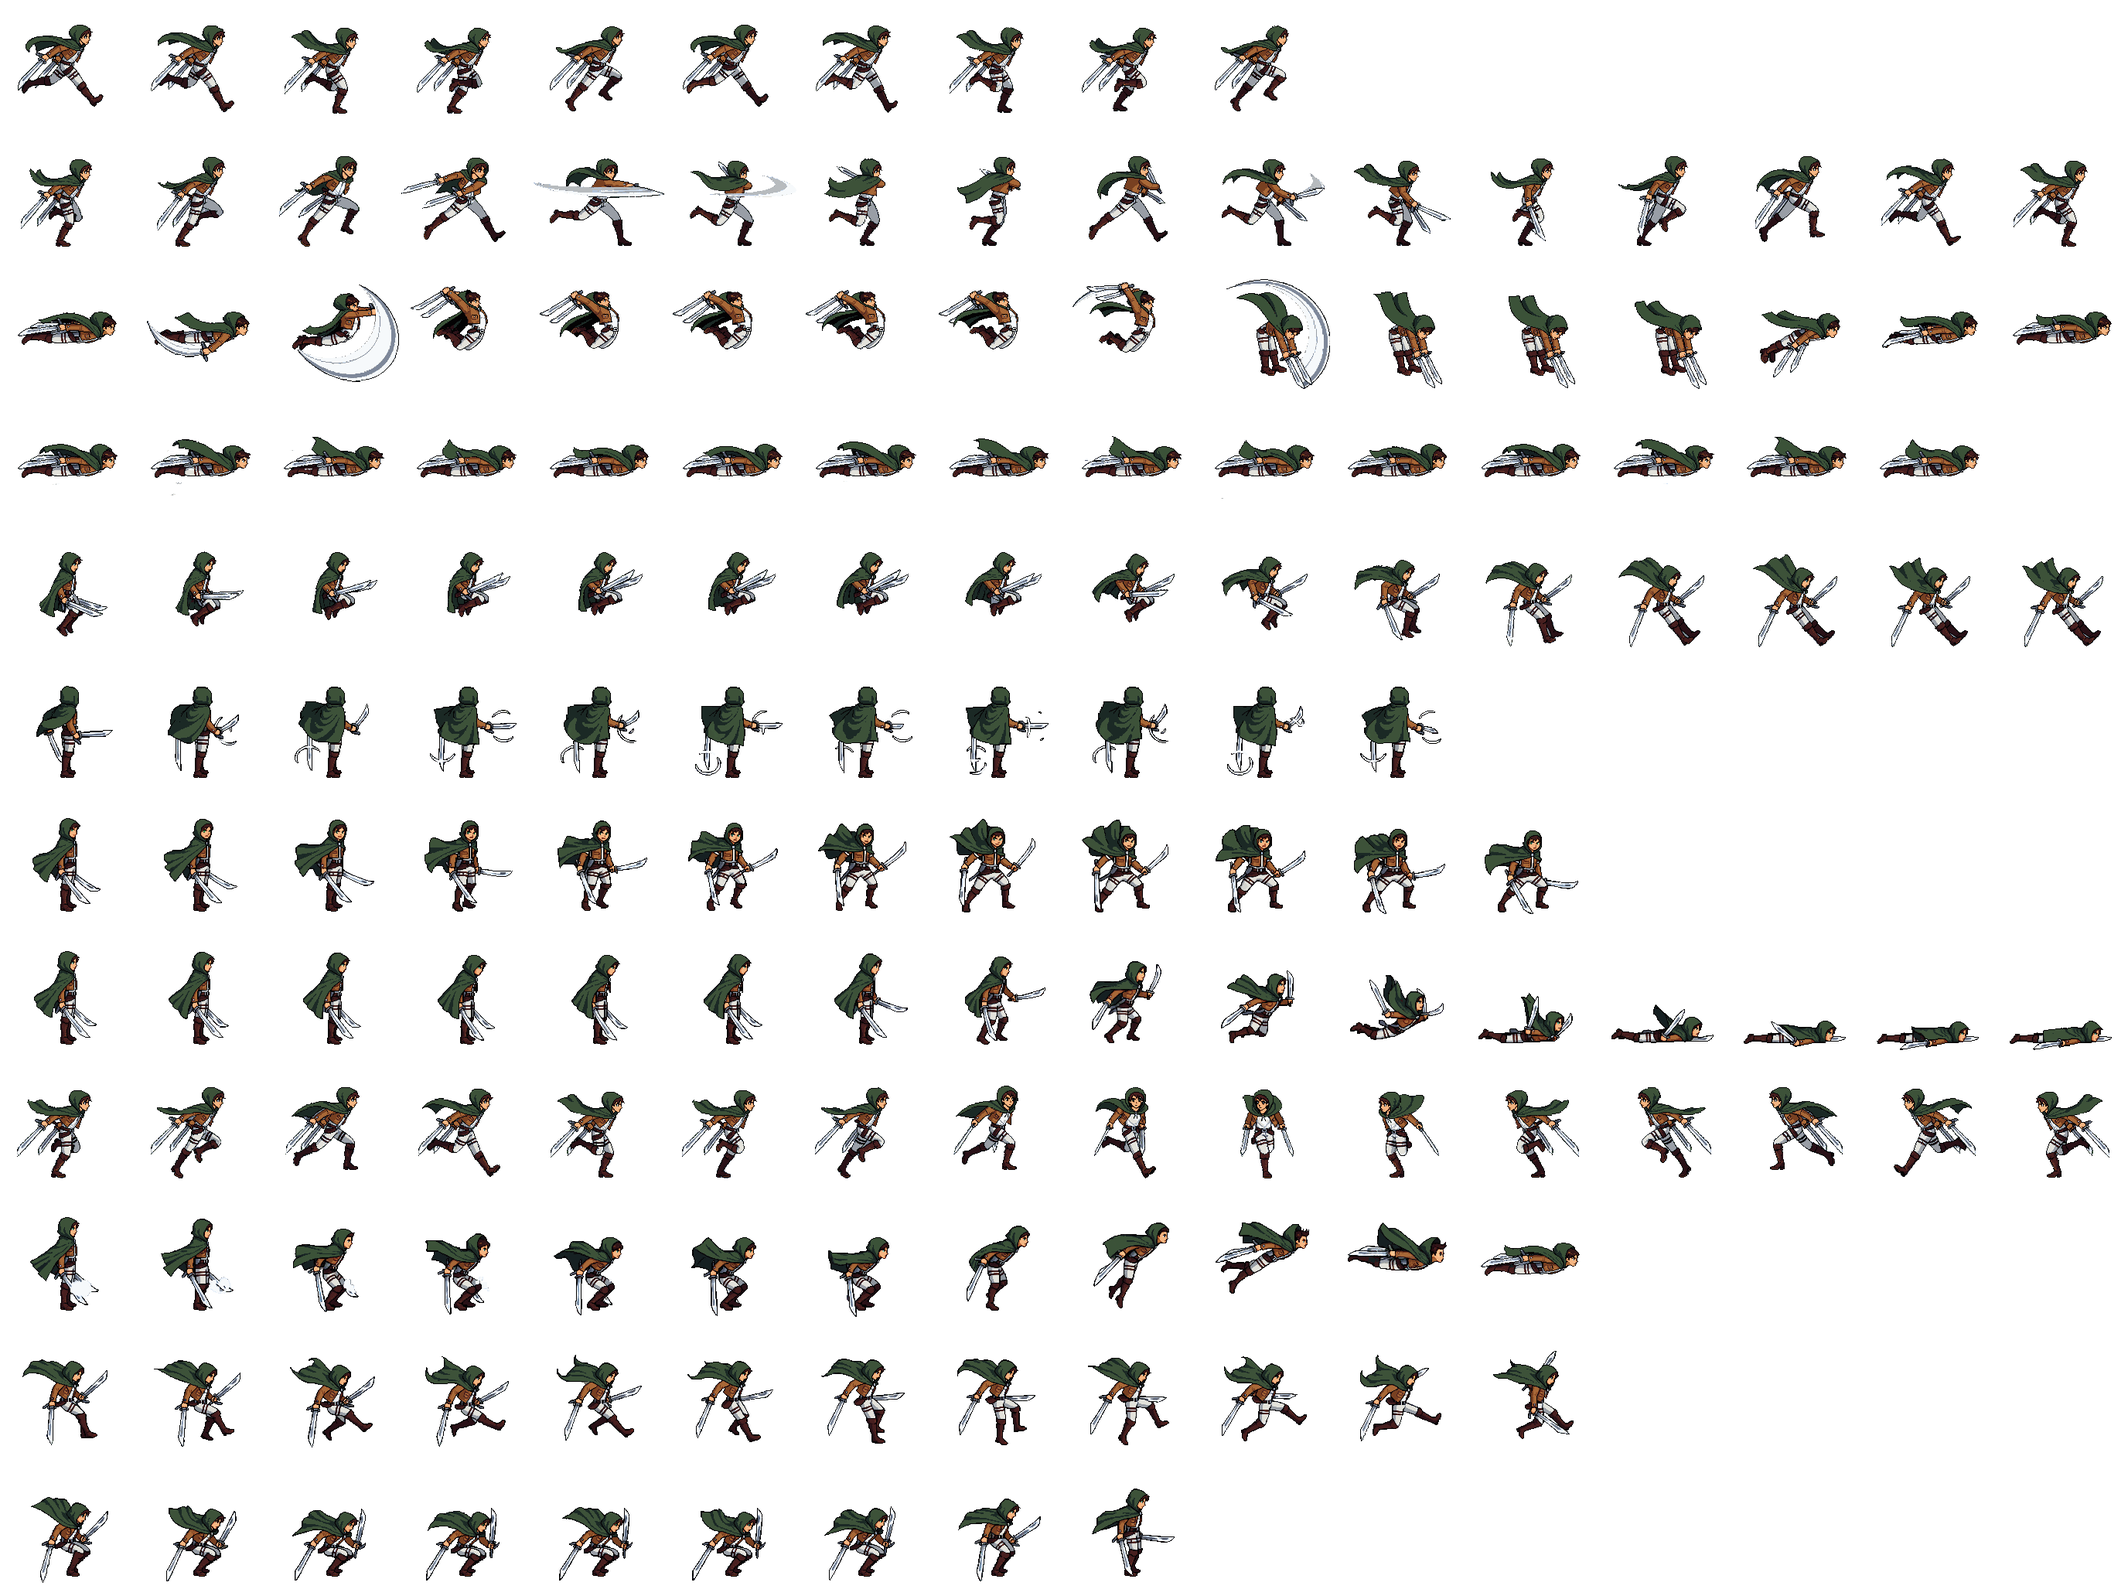
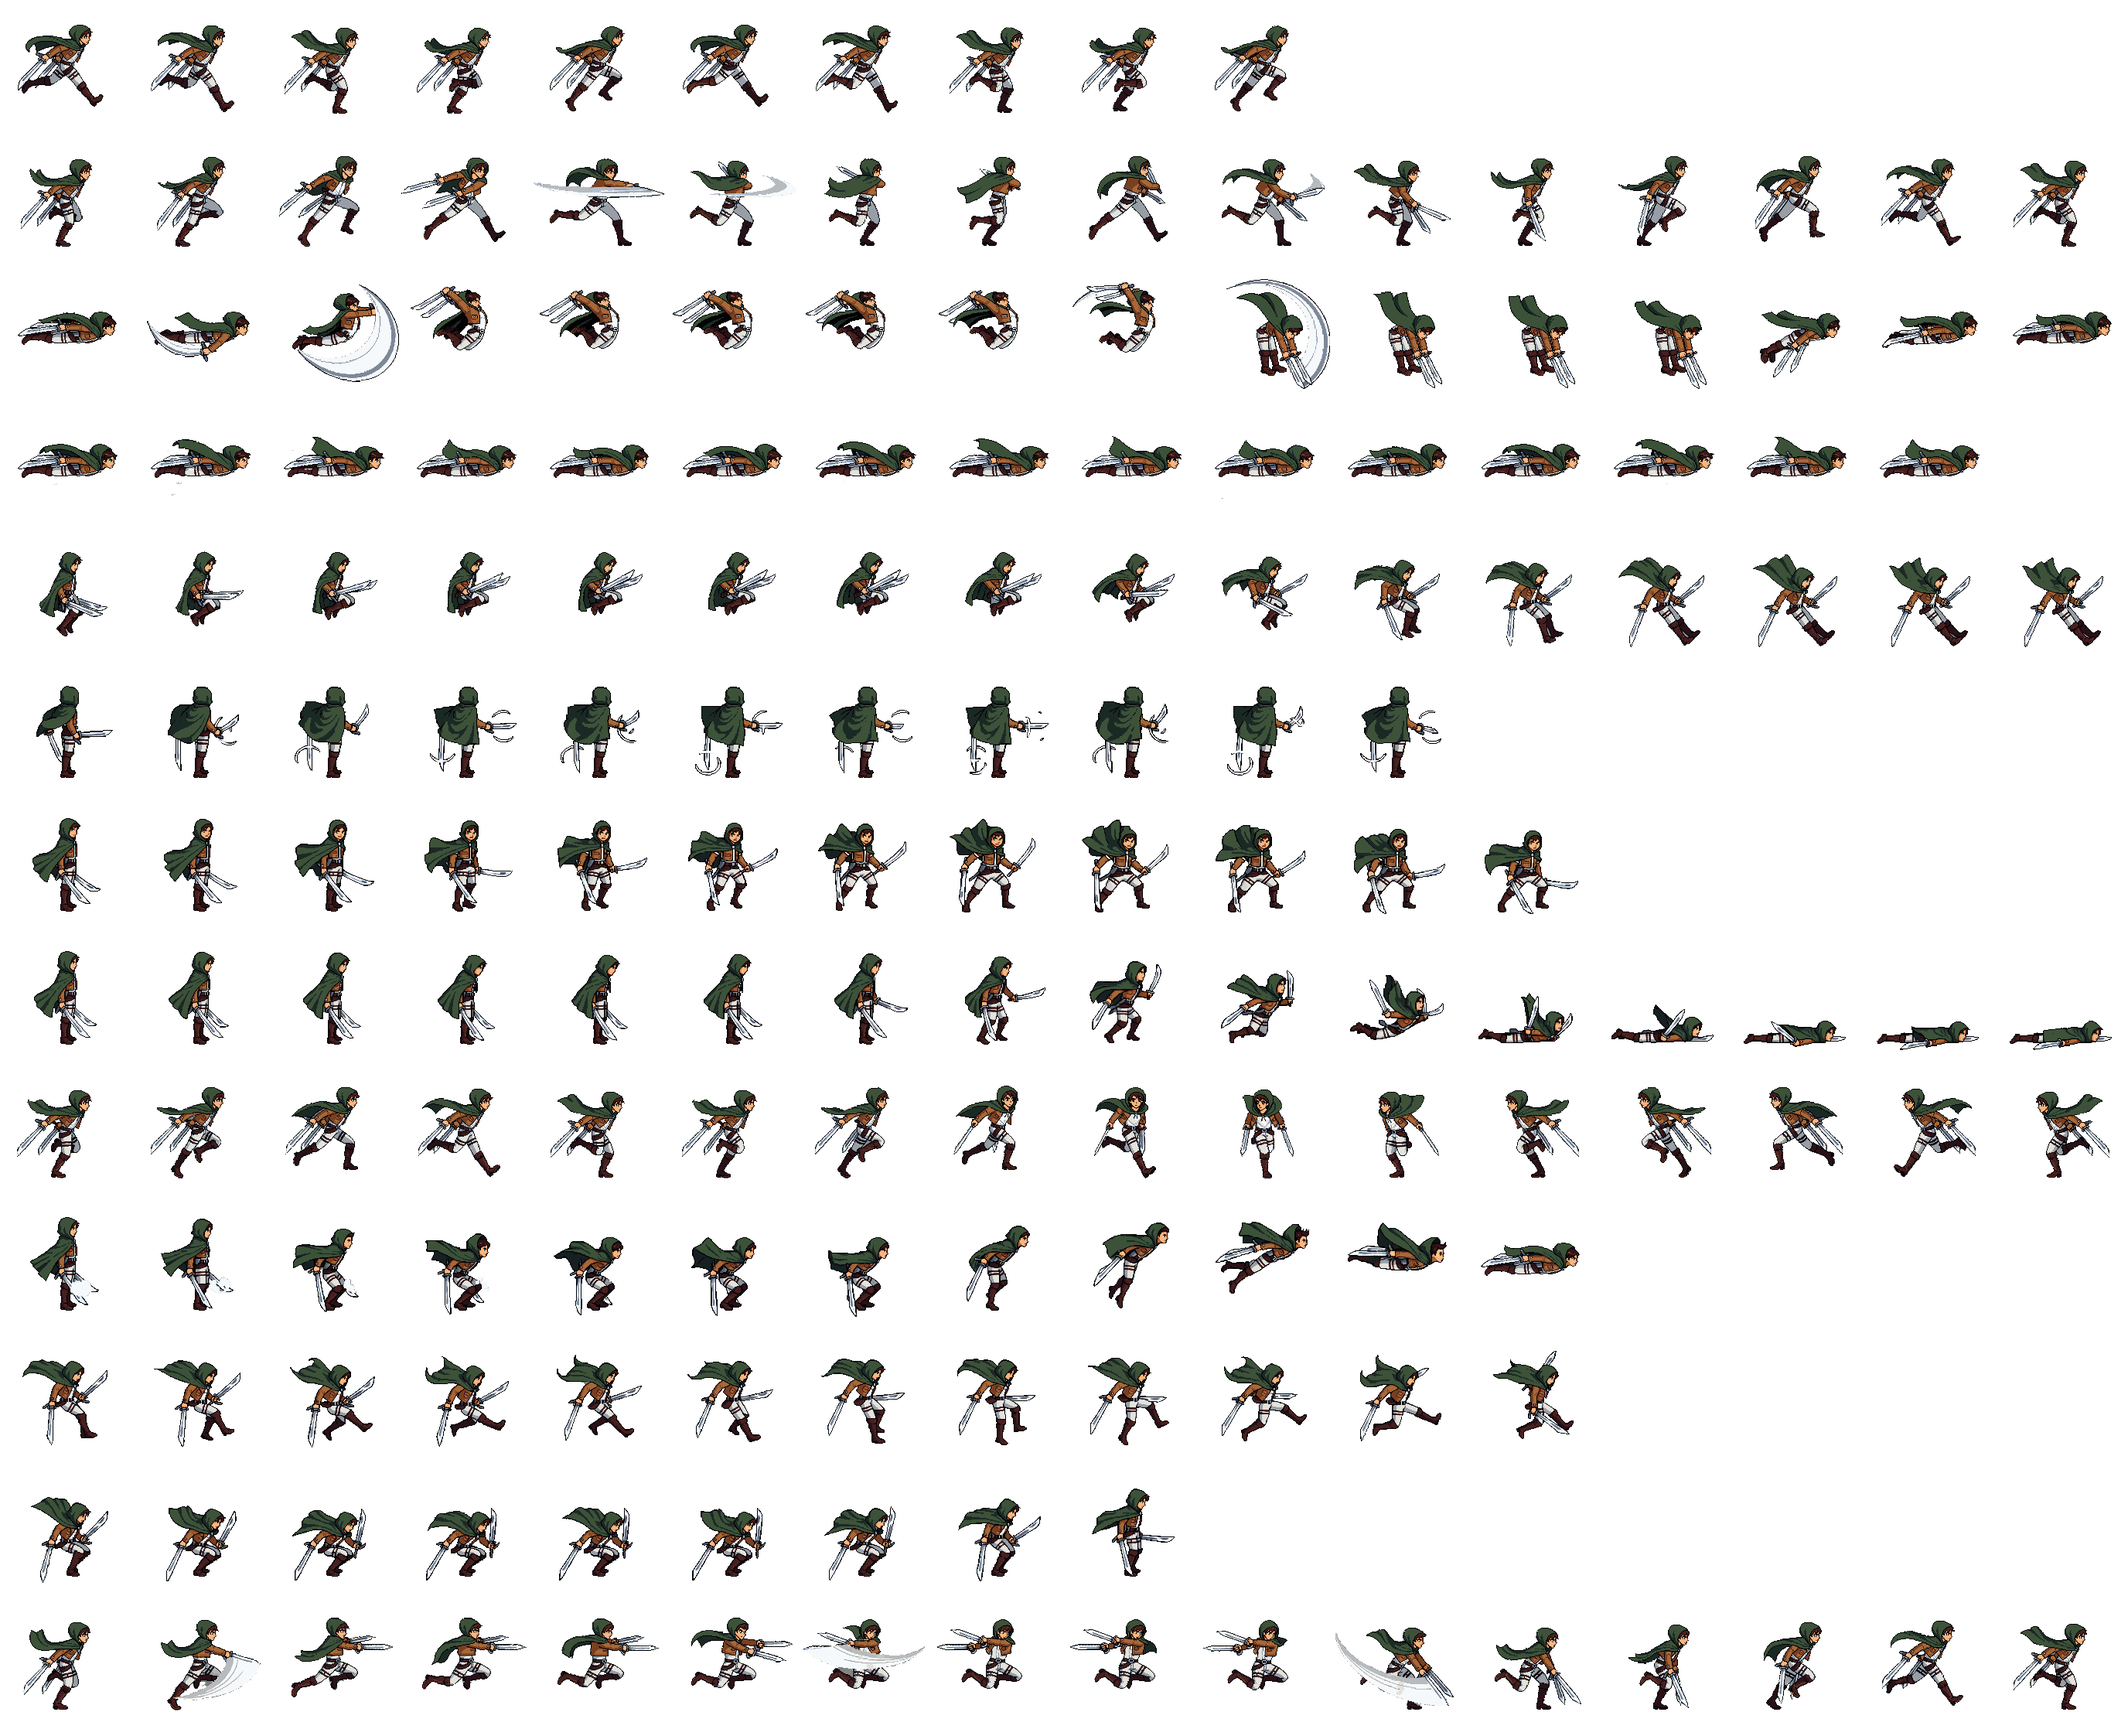
맞출 때 앞으로 도약해 가로로 베기, 멈칫·움찔·불꽃으로 타격감

Changed region(s): [[0.0, 0.093, 1.0, 0.8992], [0.0, 0.9302, 1.0, 0.9922], [0.0, 0.0, 0.625, 0.062]]

diff --git a/giant.py b/giant.py
@@ -164,6 +164,7 @@ class Giant:
         self.seeds_left = 0
         self.steam_t = 0.0
         self.flash_t = 0.0
+        self.flinch_t, self.flinch_px = 0.0, 0.0   # 맞아서 움찔: 남은 시간, 밀리는 거리 (+ 오른쪽)
         self.crit = False                        # 마지막으로 맞은 공격이 치명타였나
         self.waiting = False                     # 미리 서 있는 거인: 주인공이 다가올 때까지 제자리
         self.running = False
@@ -445,6 +446,11 @@ class Giant:
                 self.guard_t = GUARD_REACT
         return dmg, False
 
+    def flinch(self, d, big=False):
+        """주인공 칼에 맞아 d 쪽으로 움찔한다 (그림만 밀렸다 돌아온다)"""
+        self.flinch_t = GIANT_FLINCH_TIME
+        self.flinch_px = d * self.size * GIANT_FLINCH * (2 if big else 1)
+
     def die(self):
         # 주저앉은 채 죽으면 일어서는 장면 없이 무릎 꿇은 모션부터 엎어진다
         self.state, self.state_t = 'dead', DEATH_FRAME * 2 if self.kneel_t > 0 else 0.0
@@ -484,6 +490,7 @@ class Giant:
         self.anim_t += dt
         self.state_t += dt if self.state in ('dead', 'wall') else -dt
         self.flash_t = max(0.0, self.flash_t - dt)
+        self.flinch_t = max(0.0, self.flinch_t - dt)
         self.grab_cd = max(0.0, self.grab_cd - dt)
         self.guard_t = max(0.0, self.guard_t - dt)
         self.swat_cd = max(0.0, self.swat_cd - dt)
@@ -880,6 +887,8 @@ class Giant:
                 img = self.sheet_flash
         render.tint(img, skin, alpha)
         sx, sy = camera.to_screen(self.x, self.y)
+        if self.flinch_t > 0:
+            sx += self.flinch_px * (self.flinch_t / GIANT_FLINCH_TIME) ** 2   # 확 밀렸다가 돌아온다
         if img is self.sheet_armor:
             # 갑옷 시트는 줄 구성과 프레임 수, 칸 크기가 달라서 따로 맞춘다
             m = ARMOR_META

diff --git a/config.py b/config.py
@@ -29,6 +29,17 @@ HERO_CURVE_LEAN = 0.22        # 커브 안쪽으로 몸을 기울이는 각도 (
 HERO_CURVE_DEPTH = 0.16       # 커브 한가운데서 화면 쪽으로 다가오며 커 보이는 정도
 HERO_CURVE_DROP = 7.0         # 화면 쪽으로 다가오며 아래로 내려오는 높이 (px)
 HERO_SLASH_TIME = 0.34        # 칼을 휘두르는 시간 (초)
+HERO_SLASH_HIT = 0.3          # 그중 칼이 닿아 피해가 들어가는 시점 (0~1)
+HERO_HIT_SLASH_TIME = 0.55    # 땅에서 맞출 거인이 있을 때: 앞으로 도약해 베고 착지해 달려 나가기까지 (초)
+HERO_HIT_SLASH_HIT = 0.3      # 그중 칼이 닿는 시점 (0~1). 도약하며 칼을 뻗는 7장은 이 안에 빠르게 지나간다
+HERO_LEAP_SPEED = 360.0       # 도약하는 동안 앞으로 나아가는 속도 (달리던 속도가 더 빠르면 그대로)
+HERO_LEAP_LIFT = 6.0         # 그림 속 도약에 더해 몸을 띄우는 높이 (px)
+# 맞췄을 때의 타격감 (헛스윙이면 아무것도 안 한다)
+HERO_IMPACT_TIME = 0.14       # 도약 베기 뒤 착지해 버티는 동안 느려지는 시간 (초). 끝나면 다시 가속한다
+HERO_IMPACT_SLOW = 0.6        # 그동안 달리는 속도 배율
+HITSTOP_BODY = 0.055          # 몸통을 베었을 때 멈칫하는 시간 (목덜미는 play_mode.neck_juice)
+GIANT_FLINCH_TIME = 0.18      # 맞은 거인이 움찔하는 시간
+GIANT_FLINCH = 0.03           # 움찔하며 밀리는 거리: 키에 대한 비율 (목덜미는 두 배)
 HERO_WIRE_SLASH_TIME = 0.46   # 와이어로 날며 크게 베는 시간 (초)
 HERO_WIRE_SLASH_HIT = 0.3     # 그중 칼을 내리치는 시점 (0~1). 앞쪽 젖히는 동작은 빠르게 지나간다
 HERO_WIRE_SLASH_DASH = 1.45   # 내리치는 순간 앞으로 튀어 나가는 속도 배율

diff --git a/tools/make_hero.py b/tools/make_hero.py
@@ -37,9 +37,10 @@ ROWS = [
     ('launch', 'launch',        list(R(1, 13))),             # 와이어 출발: 앞 7장 웅크리기, 뒤 5장 튀어 오르기
     ('fall',   'fall',          list(R(1, 13))),             # 빠르게 떨어지는 중 (반복)
     ('land',   'land',          list(R(2, 11))),             # 세게 착지해 깊이 웅크렸다 일어나기
+    ('hit_slash', 'leap_slash', list(R(1, 17))),             # 맞출 때: 앞으로 낮게 도약하며 칼 두 쌍을 앞으로 뻗었다가 뒤로 가로로 휘두른다 (2~9번 공중, 다리를 접어 좁게. 6번이 휘두르는 장, 10번 착지)
 ]
 # 시작·끝 자세를 지정해 만든 동작은 캔버스가 달라서 다른 프레임과 맞도록 옮긴다 (첫 장과 원본 자세를 비교한 값)
-ALIGN = {'run_slash': (-34, 0), 'wire_slash': (-36, -18), 'curve': (-4, -2), 'launch': (-6, -12), 'fall': (0, -8), 'land': (0, -12)}
+ALIGN = {'run_slash': (-34, 0), 'wire_slash': (-36, -18), 'curve': (-4, -2), 'launch': (-6, -12), 'fall': (0, -8), 'land': (0, -12), 'leap_slash': (-26, -2)}
 ONLY_BODY = {'launch'}       # 몸과 떨어진 먼지 덩어리를 지운다
 
 # 눈: 형광 초록 → 청록. 밝기에 따라 어두운 청록 ~ 밝은 청록 사이로

diff --git a/play_mode.py b/play_mode.py
@@ -90,6 +90,15 @@ def neck_juice(g, dmg, killed, face, big=True):
         camera.shake(0.16, 7)
 
 
+def body_juice(g, y, face, killed):
+    """몸통을 벴을 때의 타격감: 짧게 멈칫, 작은 흔들림, 베인 자리에서 튀는 불꽃, 묵직한 소리"""
+    global hitstop, flash_t
+    sound.sfx('slash_crit')
+    effect.add(effect.Spray(g.x - face * g.size * 0.08, y, (0.0 if face > 0 else math.pi) + 0.3 * face, 12))
+    hitstop = max(hitstop, 0.16 if killed else HITSTOP_BODY)
+    camera.shake(0.1, 4)
+
+
 DEATH_FADE = (0.5, 2.2)     # 쓰러진 뒤 (이만큼 지나서, 이 시간 동안) 화면이 점점 어두워진다
 DEATH_END = 3.3             # 쓰러진 뒤 결과 화면으로 넘어가기까지 (어두워진 뒤 잠깐 머문다)
 
